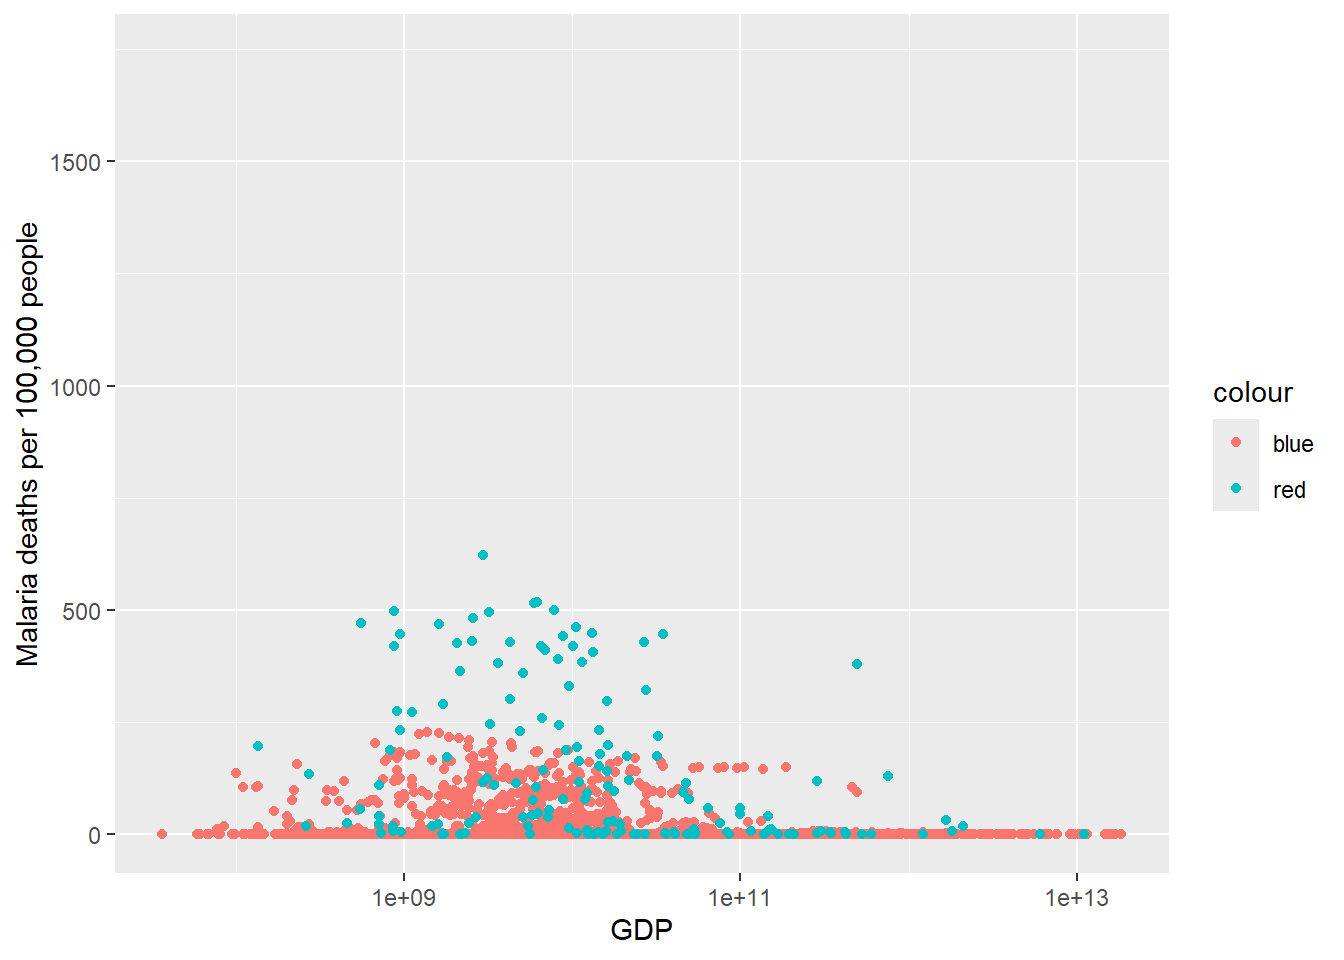
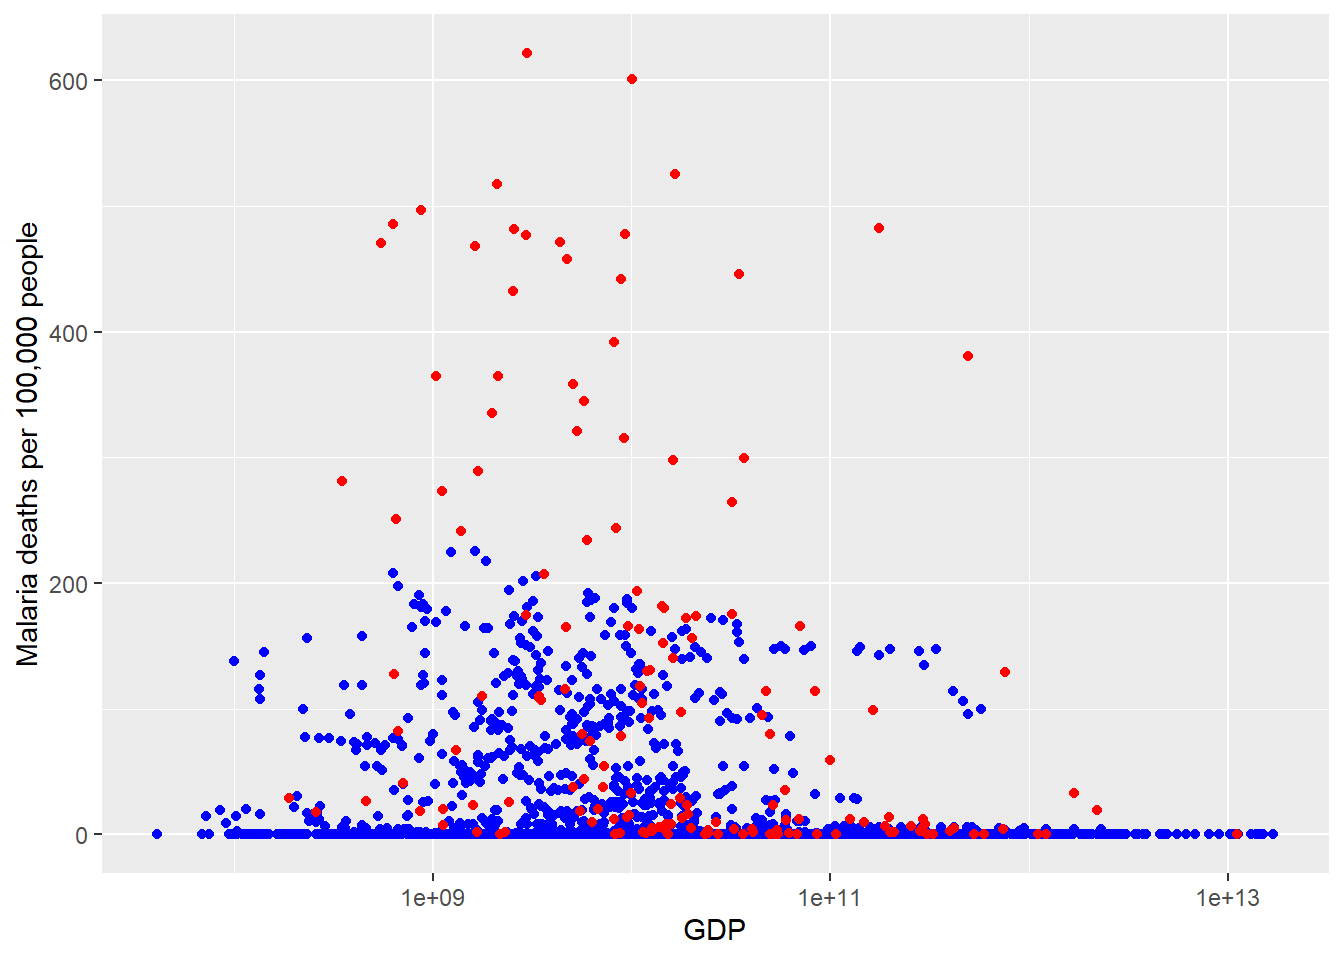
working on explore included intro and abstract

diff --git a/malaria comb data.html b/malaria comb data.html
@@ -7,7 +7,7 @@
 <meta name="viewport" content="width=device-width, initial-scale=1.0, user-scalable=yes">
 
 
-<title>testing multi data</title>
+<title>Malaria data analysis</title>
 <style>
 code{white-space: pre-wrap;}
 span.smallcaps{font-variant: small-caps;}
@@ -79,7 +79,7 @@ pre > code.sourceCode > span > a:first-child::before { text-decoration: underlin
 
 <header id="title-block-header" class="quarto-title-block default">
 <div class="quarto-title">
-<h1 class="title">testing multi data</h1>
+<h1 class="title">Malaria data analysis</h1>
 </div>
 
 
@@ -173,6 +173,18 @@ dbl (2): Year, Value
 <div class="sourceCode cell-code" id="cb14"><pre class="sourceCode r code-with-copy"><code class="sourceCode r"><span id="cb14-1"><a href="#cb14-1" aria-hidden="true" tabindex="-1"></a><span class="fu">colnames</span>(mal_gdp)[<span class="dv">4</span>] <span class="ot">=</span><span class="st">"Malaria deaths per 100,000 people"</span></span>
 <span id="cb14-2"><a href="#cb14-2" aria-hidden="true" tabindex="-1"></a><span class="fu">colnames</span>(mal_gdp)[<span class="dv">5</span>] <span class="ot">=</span> <span class="st">"Malaria cases per 1,000 at risk people"</span></span></code><button title="Copy to Clipboard" class="code-copy-button"><i class="bi"></i></button></pre></div>
 </div>
+<section id="abstract" class="level2">
+<h2 class="anchored" data-anchor-id="abstract">Abstract</h2>
+<p>This project looks at Malaria rates in the context of countries, years and gross domestic product(GDP).</p>
+</section>
+<section id="introduction" class="level2">
+<h2 class="anchored" data-anchor-id="introduction">Introduction</h2>
+<p>Malaria is a parasitic desease that is caused by members of the plasmodium genus. Plasmodium uses misquitos as an infection vector that passes to humans when the misquito feeds. Once it enter a human it will multiply in the liver before being released into the blood. When a new misquito bites an infected human it will become infected and the cycle will continue.</p>
+<p>Malaria can present as simple as a fever and headache all the way to confusion, seizures, and difficulty breathing. It is both preventable and curable. Most commonly found in tropical enviroment the WHO reports that 94% of cases are in the african region. Like most deseases children and the elderly are most vunerable to malaria.</p>
+<p>The data in this analysis comes from three sources. Both Malaria incedences and deaths comes from the Malaria Atlas Project(MAP). The MAP is an Oxford founded orginasation that works closly with the WHO to provide data analysis on Malaria. The Malaria deaths data set has a large number of contries over the period of about 25 years. The Malaria incedence data set has the same countries but only looks a handful of years. The final data set is GDPs from countries around the world as reported by the World Bank. The World Bank is a group of international orginizations that release a wide varity of economic data.</p>
+</section>
+<section id="exploration" class="level2">
+<h2 class="anchored" data-anchor-id="exploration">Exploration</h2>
 <div class="cell">
 <div class="sourceCode cell-code" id="cb15"><pre class="sourceCode r code-with-copy"><code class="sourceCode r"><span id="cb15-1"><a href="#cb15-1" aria-hidden="true" tabindex="-1"></a><span class="fu">library</span>(tidymodels)</span></code><button title="Copy to Clipboard" class="code-copy-button"><i class="bi"></i></button></pre></div>
 <div class="cell-output cell-output-stderr">
@@ -194,7 +206,7 @@ dbl (2): Year, Value
 ✖ dplyr::lag()      masks stats::lag()
 ✖ yardstick::spec() masks readr::spec()
 ✖ recipes::step()   masks stats::step()
-• Search for functions across packages at https://www.tidymodels.org/find/</code></pre>
+• Use tidymodels_prefer() to resolve common conflicts.</code></pre>
 </div>
 <div class="sourceCode cell-code" id="cb19"><pre class="sourceCode r code-with-copy"><code class="sourceCode r"><span id="cb19-1"><a href="#cb19-1" aria-hidden="true" tabindex="-1"></a>my_data_splits <span class="ot">&lt;-</span> <span class="fu">initial_split</span>(mal_gdp, <span class="at">prop =</span> <span class="fl">0.5</span>)</span>
 <span id="cb19-2"><a href="#cb19-2" aria-hidden="true" tabindex="-1"></a></span>
@@ -205,21 +217,23 @@ dbl (2): Year, Value
 <pre><code># A tibble: 3,078 × 6
    Entity     Code   Year Malaria deaths per 1…¹ Malaria cases per 1,…²      GDP
    &lt;chr&gt;      &lt;chr&gt; &lt;dbl&gt;                  &lt;dbl&gt;                  &lt;dbl&gt;    &lt;dbl&gt;
- 1 Southern … &lt;NA&gt;   2000                 0.0109                     NA NA      
- 2 Honduras   HND    2016                 0.369                      NA  2.17e10
- 3 Zimbabwe   ZWE    2009                10.1                        NA  9.67e 9
- 4 United Ar… ARE    1994                 0.0278                     NA  5.93e10
- 5 Lebanon    LBN    2016                 0                          NA  5.11e10
- 6 Burundi    BDI    2004               144.                         NA  9.15e 8
- 7 Sweden     SWE    1993                 0                          NA  2.13e11
- 8 Montenegro MNE    1998                 0                          NA  8.54e 8
- 9 Guyana     GUY    2014                 1.81                       NA  4.13e 9
-10 Mozambique MOZ    1993               153.                         NA  2.88e 9
+ 1 Brazil     BRA    2001                 0.0796                     NA  5.60e11
+ 2 Venezuela  VEN    1992                 0.169                      NA NA      
+ 3 Philippin… PHL    1993                 1.26                       NA  6.20e10
+ 4 Australia  AUS    1997                 0                          NA  4.36e11
+ 5 Qatar      QAT    1999                 0                          NA  1.24e10
+ 6 Maldives   MDV    2005                 0                          NA  1.16e 9
+ 7 Poland     POL    1994                 0                          NA  1.11e11
+ 8 China      CHN    1996                 0.0227                     NA  8.64e11
+ 9 Tunisia    TUN    2001                 0                          NA  2.21e10
+10 Egypt      EGY    1998                 0.0107                     NA NA      
 # ℹ 3,068 more rows
 # ℹ abbreviated names: ¹`Malaria deaths per 100,000 people`,
 #   ²`Malaria cases per 1,000 at risk people`</code></pre>
 </div>
 </div>
+<section id="questions" class="level3">
+<h3 class="anchored" data-anchor-id="questions">Questions</h3>
 <p>How do malaria deaths change over time? What year had the highest death rate of malaria?</p>
 <div class="cell">
 <div class="sourceCode cell-code" id="cb21"><pre class="sourceCode r code-with-copy"><code class="sourceCode r"><span id="cb21-1"><a href="#cb21-1" aria-hidden="true" tabindex="-1"></a>death_mean <span class="ot">&lt;-</span> exploratory_data<span class="sc">%&gt;%</span></span>
@@ -248,7 +262,7 @@ dbl (2): Year, Value
 <span id="cb22-3"><a href="#cb22-3" aria-hidden="true" tabindex="-1"></a>  <span class="fu">geom_point</span>(<span class="at">mapping =</span> <span class="fu">aes</span>(<span class="at">y=</span> <span class="st">`</span><span class="at">Malaria deaths per 100,000 people</span><span class="st">`</span>, <span class="at">x =</span> GDP))<span class="sc">+</span></span>
 <span id="cb22-4"><a href="#cb22-4" aria-hidden="true" tabindex="-1"></a>  <span class="fu">scale_x_log10</span>()</span></code><button title="Copy to Clipboard" class="code-copy-button"><i class="bi"></i></button></pre></div>
 <div class="cell-output cell-output-stderr">
-<pre><code>Warning: Removed 919 rows containing missing values or values outside the scale range
+<pre><code>Warning: Removed 898 rows containing missing values or values outside the scale range
 (`geom_point()`).</code></pre>
 </div>
 <div class="cell-output-display">
@@ -267,7 +281,7 @@ dbl (2): Year, Value
 <span id="cb24-3"><a href="#cb24-3" aria-hidden="true" tabindex="-1"></a>  <span class="fu">geom_point</span>(<span class="at">mapping =</span> <span class="fu">aes</span>(<span class="at">x=</span> GDP, <span class="at">y=</span> <span class="st">`</span><span class="at">Malaria cases per 1,000 at risk people</span><span class="st">`</span>))<span class="sc">+</span></span>
 <span id="cb24-4"><a href="#cb24-4" aria-hidden="true" tabindex="-1"></a>  <span class="fu">scale_x_log10</span>()</span></code><button title="Copy to Clipboard" class="code-copy-button"><i class="bi"></i></button></pre></div>
 <div class="cell-output cell-output-stderr">
-<pre><code>Warning: Removed 2918 rows containing missing values or values outside the scale range
+<pre><code>Warning: Removed 2919 rows containing missing values or values outside the scale range
 (`geom_point()`).</code></pre>
 </div>
 <div class="cell-output-display">
@@ -282,15 +296,15 @@ dbl (2): Year, Value
 <div class="cell">
 <div class="sourceCode cell-code" id="cb26"><pre class="sourceCode r code-with-copy"><code class="sourceCode r"><span id="cb26-1"><a href="#cb26-1" aria-hidden="true" tabindex="-1"></a>exploratory_data<span class="sc">%&gt;%</span></span>
 <span id="cb26-2"><a href="#cb26-2" aria-hidden="true" tabindex="-1"></a>  <span class="fu">ggplot</span>()<span class="sc">+</span></span>
-<span id="cb26-3"><a href="#cb26-3" aria-hidden="true" tabindex="-1"></a>  <span class="fu">geom_point</span>(<span class="at">mapping =</span> <span class="fu">aes</span>(<span class="at">y=</span> <span class="st">`</span><span class="at">Malaria deaths per 100,000 people</span><span class="st">`</span>, <span class="at">x =</span> GDP, <span class="at">color =</span> <span class="st">"blue"</span>))<span class="sc">+</span></span>
-<span id="cb26-4"><a href="#cb26-4" aria-hidden="true" tabindex="-1"></a>  <span class="fu">geom_point</span>(<span class="at">mapping =</span> <span class="fu">aes</span>(<span class="at">x=</span> GDP, <span class="at">y=</span> <span class="st">`</span><span class="at">Malaria cases per 1,000 at risk people</span><span class="st">`</span>, <span class="at">color =</span> <span class="st">"red"</span>))<span class="sc">+</span></span>
+<span id="cb26-3"><a href="#cb26-3" aria-hidden="true" tabindex="-1"></a>  <span class="fu">geom_point</span>(<span class="at">mapping =</span> <span class="fu">aes</span>(<span class="at">y=</span> <span class="st">`</span><span class="at">Malaria deaths per 100,000 people</span><span class="st">`</span>, <span class="at">x =</span> GDP ), <span class="at">color =</span> <span class="st">"blue"</span>)<span class="sc">+</span></span>
+<span id="cb26-4"><a href="#cb26-4" aria-hidden="true" tabindex="-1"></a>  <span class="fu">geom_point</span>(<span class="at">mapping =</span> <span class="fu">aes</span>(<span class="at">x=</span> GDP, <span class="at">y=</span> <span class="st">`</span><span class="at">Malaria cases per 1,000 at risk people</span><span class="st">`</span>), <span class="at">color =</span> <span class="st">"red"</span>)<span class="sc">+</span></span>
 <span id="cb26-5"><a href="#cb26-5" aria-hidden="true" tabindex="-1"></a>  <span class="fu">scale_x_log10</span>()</span></code><button title="Copy to Clipboard" class="code-copy-button"><i class="bi"></i></button></pre></div>
 <div class="cell-output cell-output-stderr">
-<pre><code>Warning: Removed 919 rows containing missing values or values outside the scale range
+<pre><code>Warning: Removed 898 rows containing missing values or values outside the scale range
 (`geom_point()`).</code></pre>
 </div>
 <div class="cell-output cell-output-stderr">
-<pre><code>Warning: Removed 2918 rows containing missing values or values outside the scale range
+<pre><code>Warning: Removed 2919 rows containing missing values or values outside the scale range
 (`geom_point()`).</code></pre>
 </div>
 <div class="cell-output-display">
@@ -302,6 +316,8 @@ dbl (2): Year, Value
 </div>
 </div>
 <p>Hypothesis Cases of malaria will decrease on average over the years. 2000 will have the most cases of malaria.</p>
+</section>
+</section>
 
 </main>
 <!-- /main column -->
